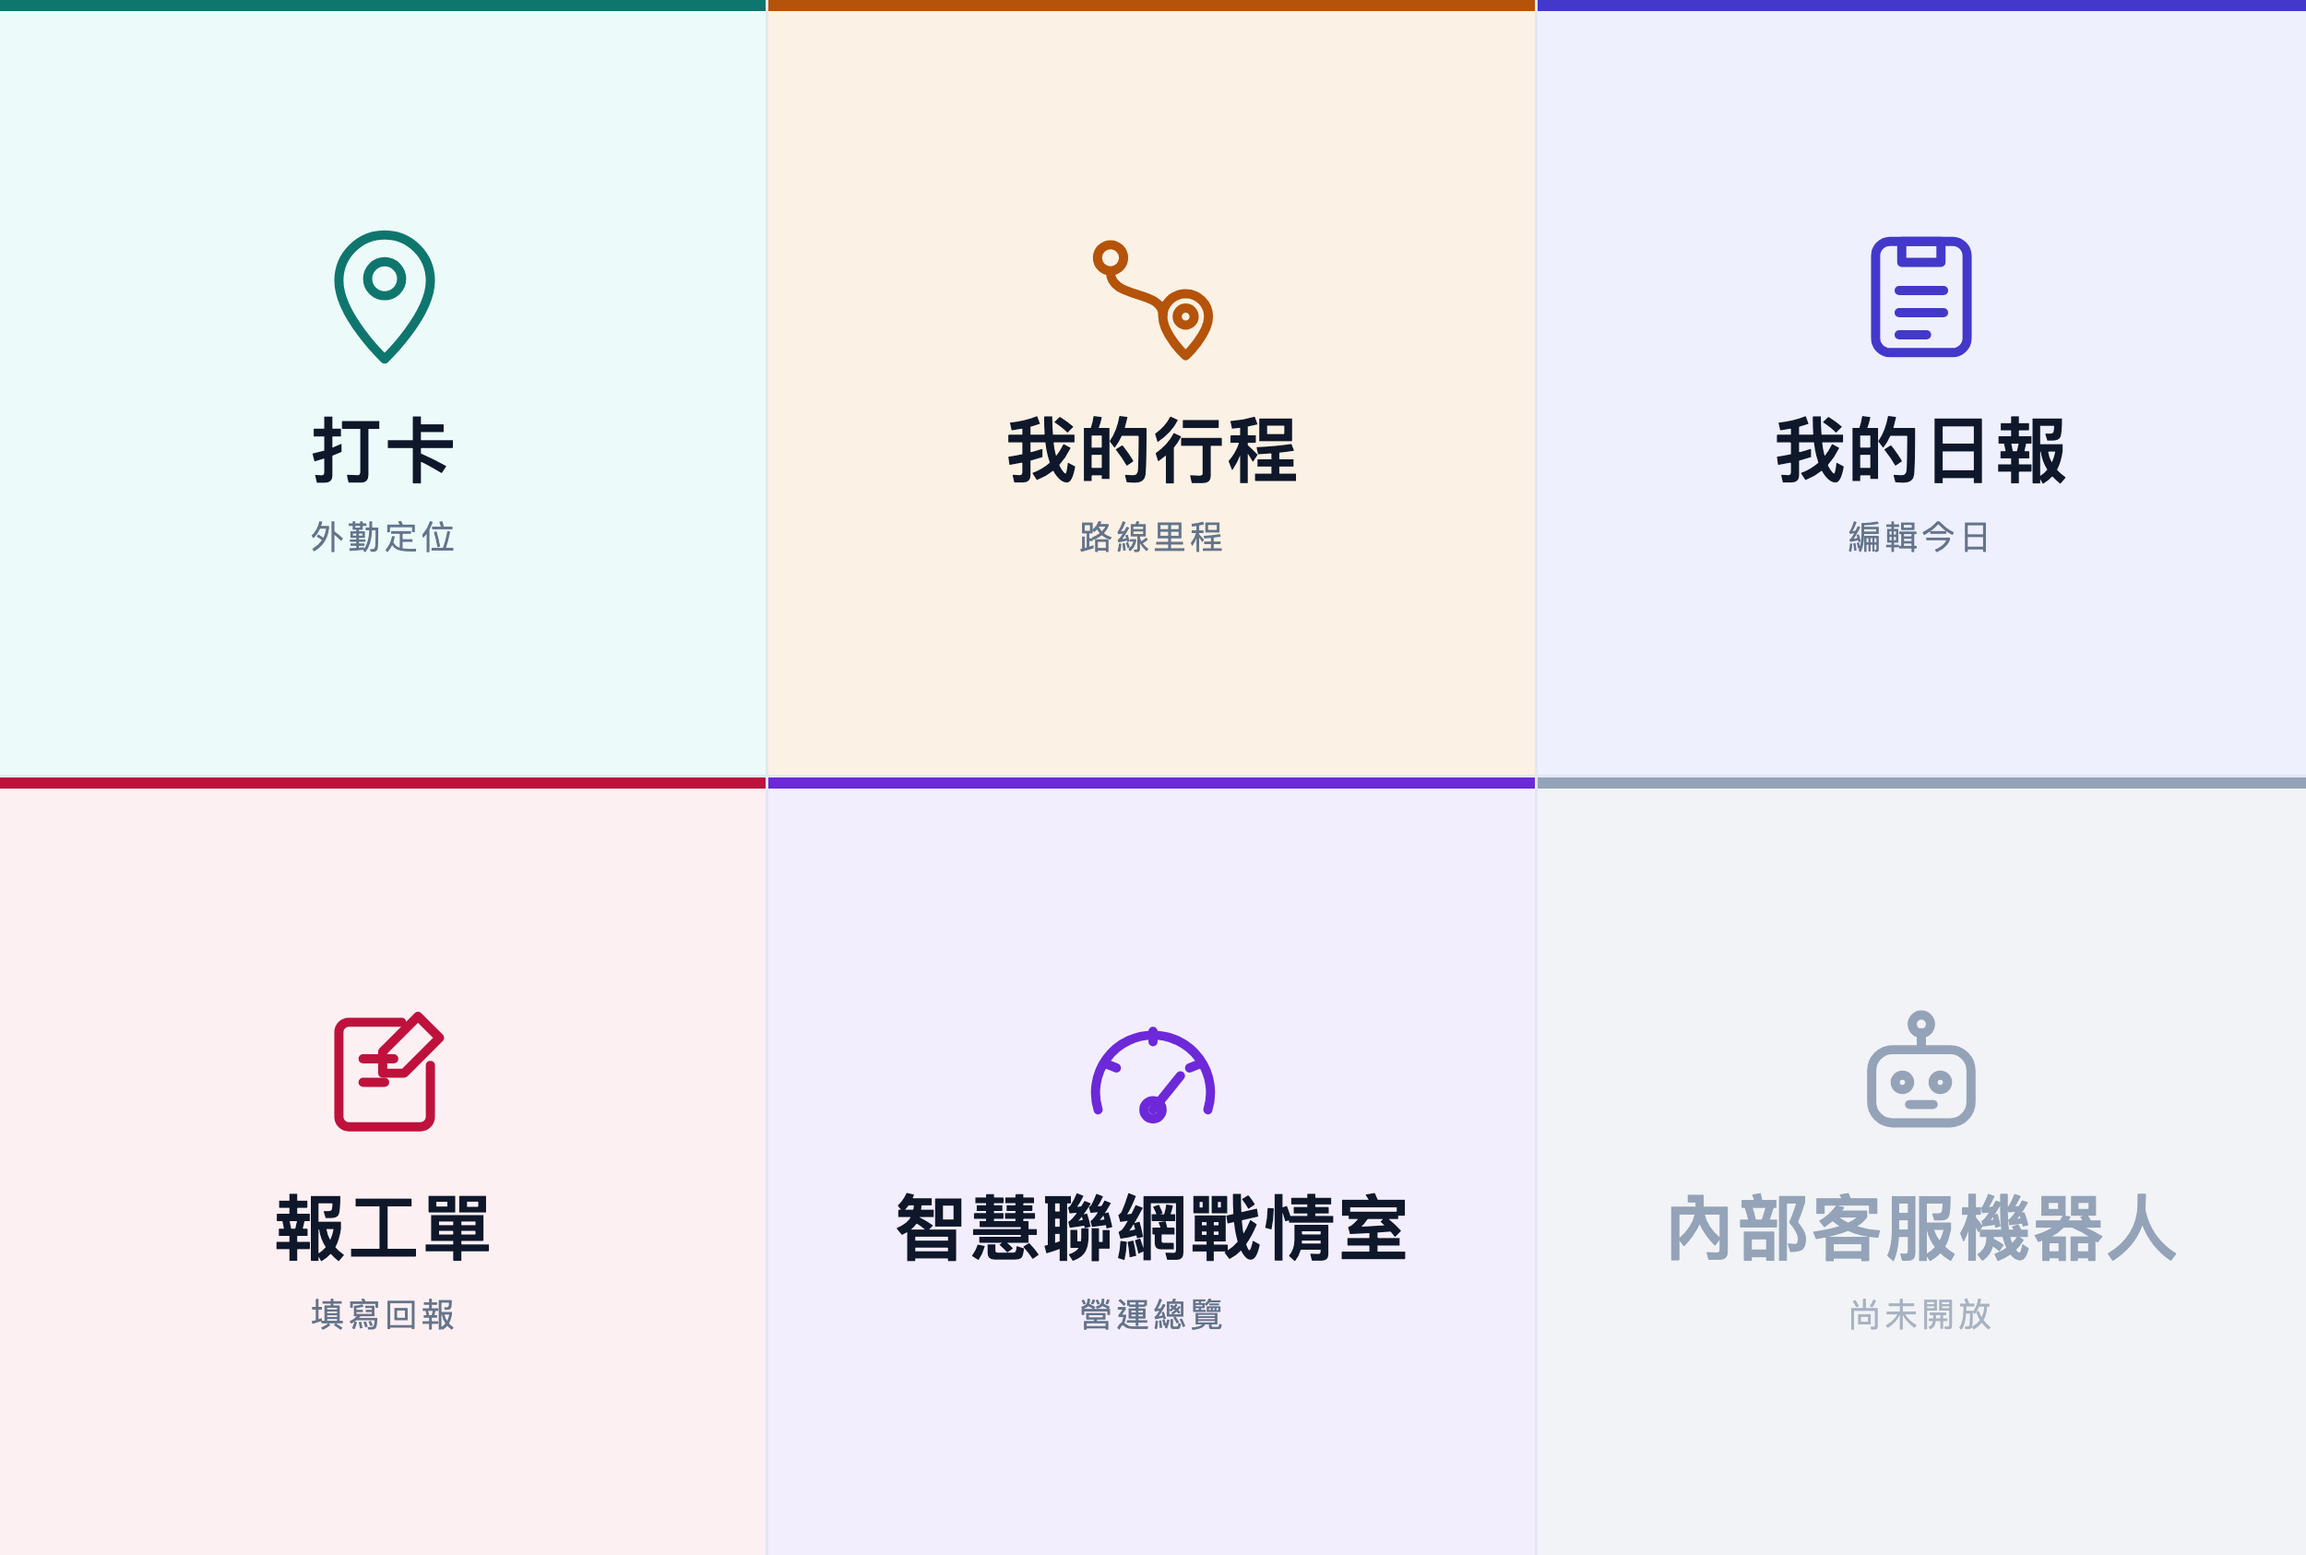
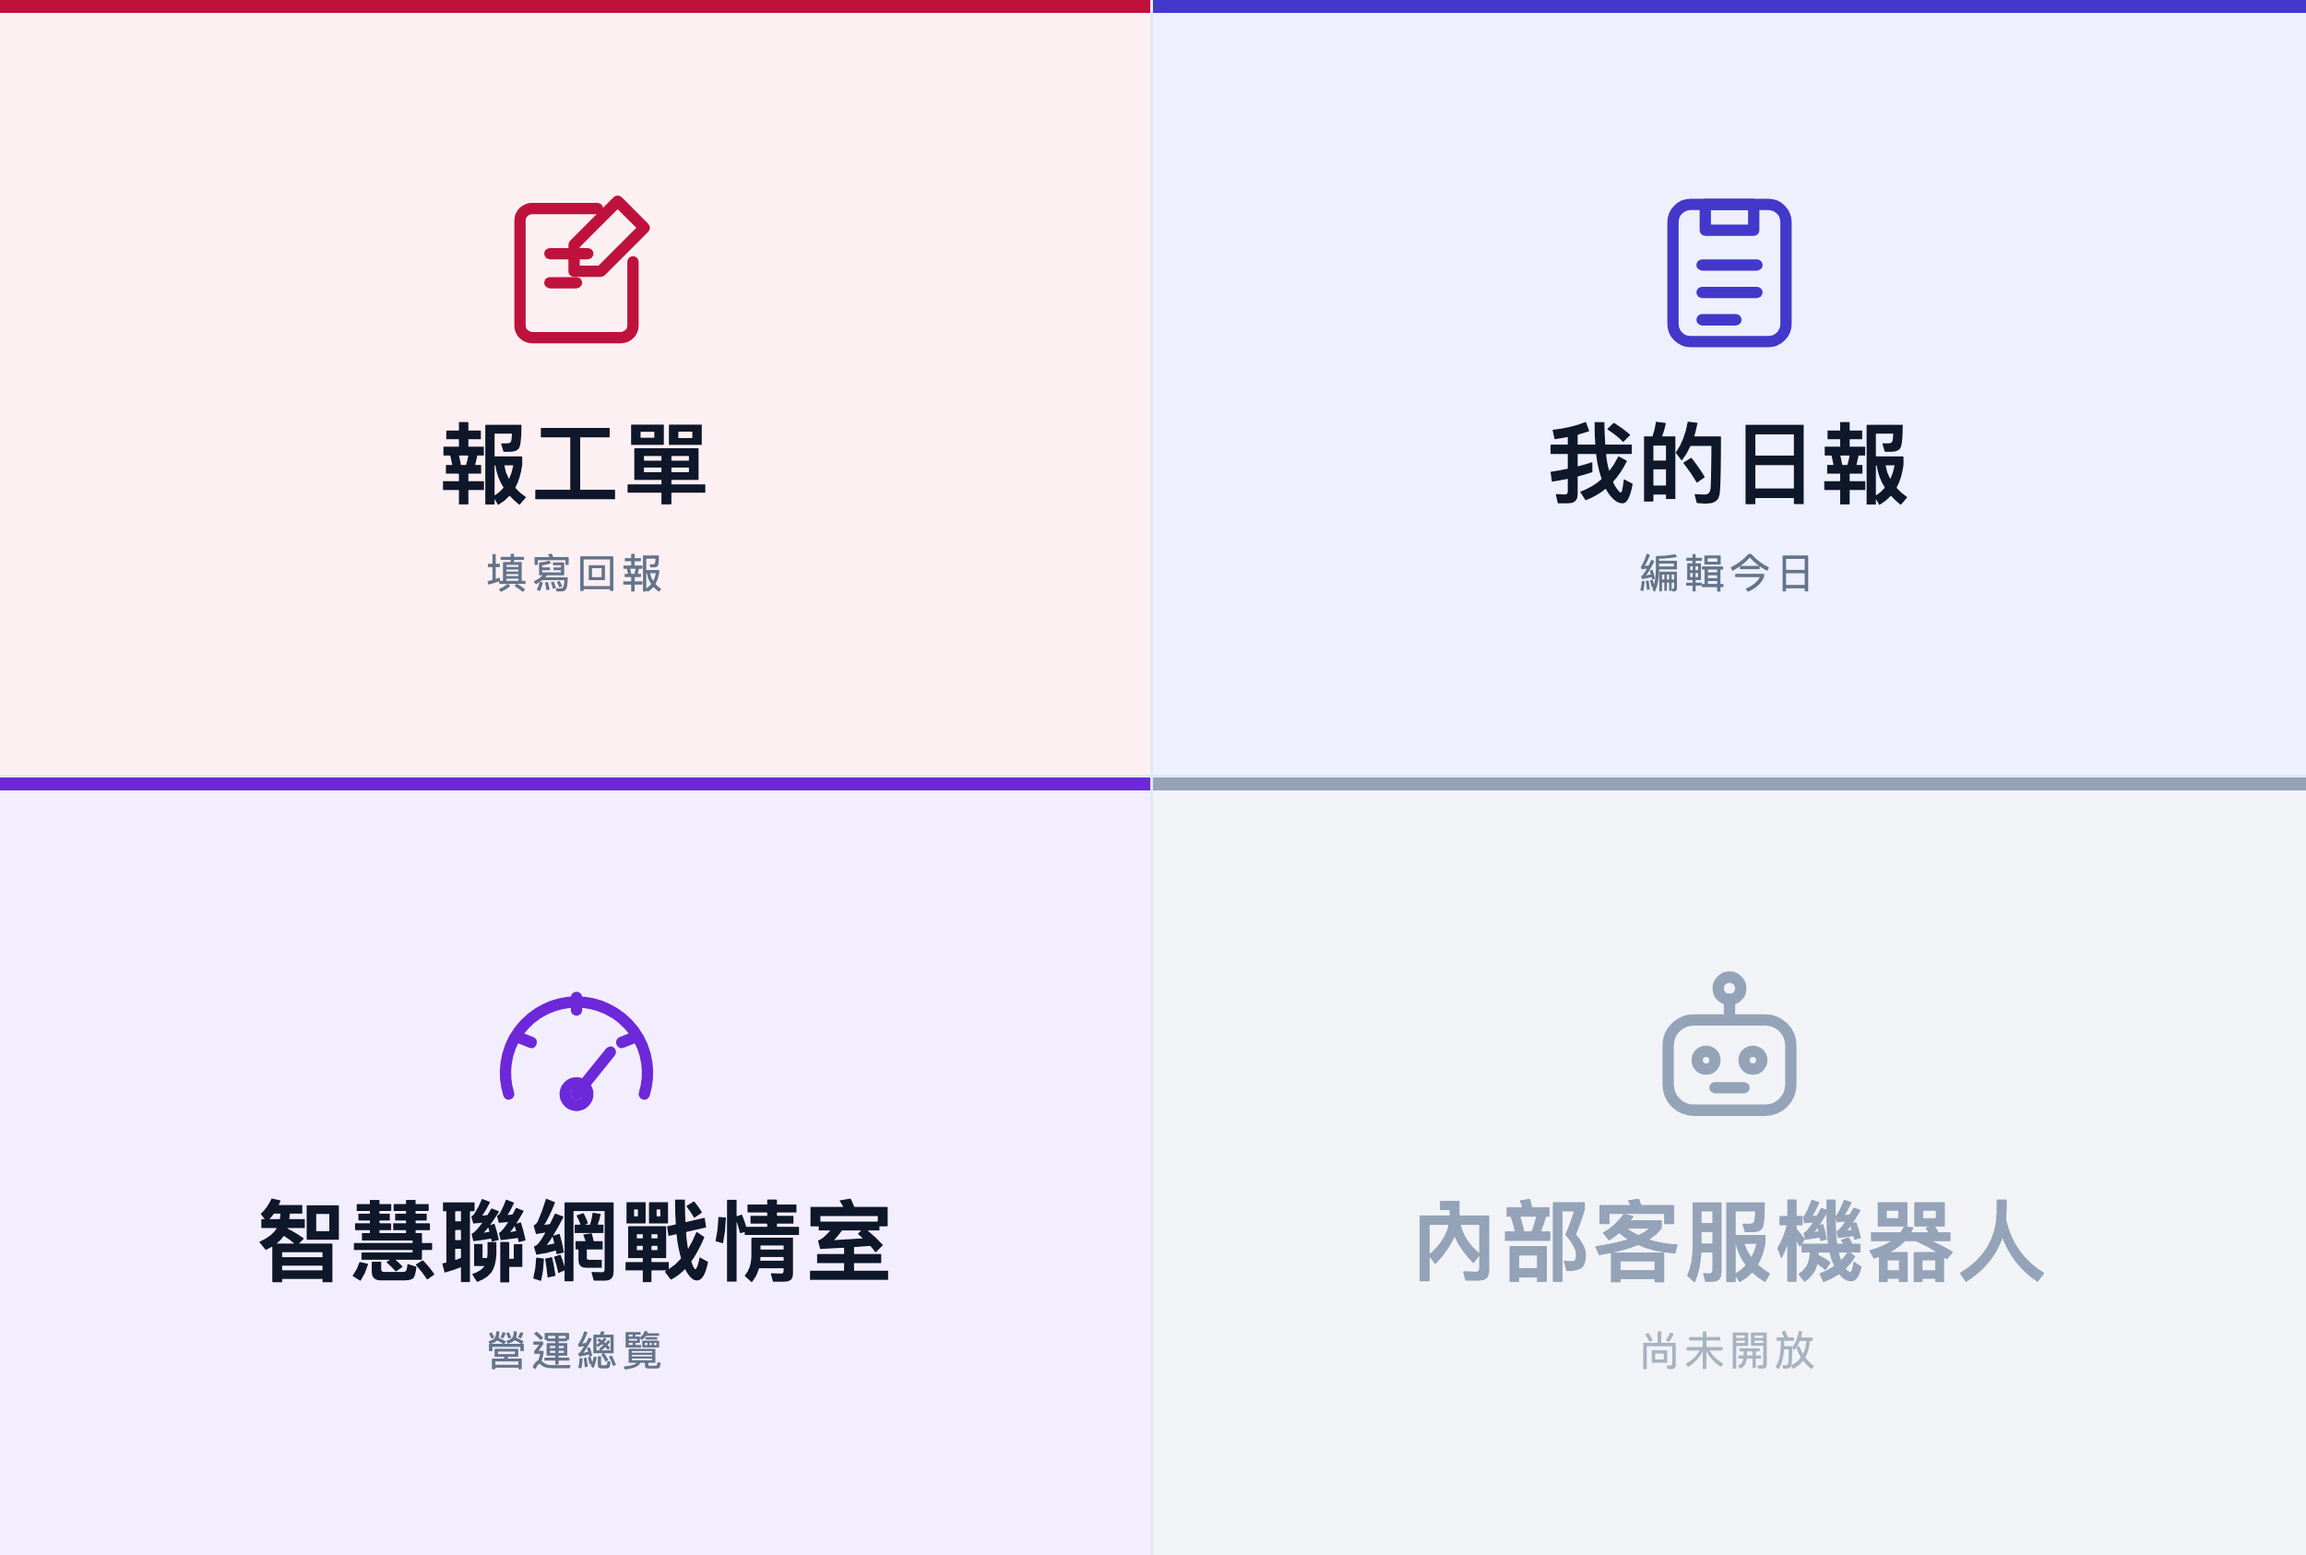
docs(richmenu): 鮮湧改 4 宮格 · 先隱藏打卡與我的行程
用戶要求鮮湧本期不放外勤功能。6 宮格 → 2×2 四宮格：
報工單 / 我的日報 / 智慧聯網戰情室 / 內部客服機器人（仍為灰階預寫）。

⚠ README 補一條操作警告：只換背景圖不算隱藏。
圖文選單的可點區塊是獨立於背景圖設定的，版型若還留著 6 區塊，
使用者點原本打卡的位置照樣會開啟 LIFF 打卡頁 —— 而且圖上看不出
那裡可以點，比壞掉的按鈕更難察覺。換圖必須一併改版型成 4 區塊。

打卡／我的行程的 LIFF 頁面本身不動，只是選單不放，要恢復隨時可以。

順手把戰情室那格的網址補成實際的 shianyong-warroom.html（原本只寫到網域）。

diff --git a/docs/mockup/richmenu/shianyong/menu.html b/docs/mockup/richmenu/shianyong/menu.html
@@ -2,16 +2,17 @@
 <html lang="zh-Hant">
 <head>
 <meta charset="utf-8" />
-<title>鮮湧 · 圖文選單背景圖（6 宮格 · 2500×1686）</title>
+<title>鮮湧 · 圖文選單背景圖（4 宮格 · 2500×1686）</title>
 <style>
   * { margin: 0; padding: 0; box-sizing: border-box; }
   html, body { background: #fff; }
   :root { --ink: #0F172A; --muted: #64748B; --divider: #E2E8F0; }
 
-  /* 3 欄 × 2 列 · 每格 833×843（LINE 大版 2500×1686 的 6 區塊版型）*/
+  /* 2 欄 × 2 列 · 每格 1250×843（LINE 大版 2500×1686 的 4 區塊版型）
+     2026-08-20：由 6 宮格改為 4 宮格 —— 打卡／我的行程先隱藏（鮮湧本期不導入外勤功能）*/
   .menu {
     display: grid;
-    grid-template-columns: repeat(3, 1fr);
+    grid-template-columns: repeat(2, 1fr);
     grid-template-rows: repeat(2, 1fr);
     width: 2500px; height: 1686px; overflow: hidden;
     font-family: "PingFang TC","Noto Sans TC","Microsoft JhengHei",sans-serif;
@@ -20,71 +21,36 @@
   .cell {
     display: flex; flex-direction: column;
     align-items: center; justify-content: center;
-    position: relative; padding: 0 24px;
+    position: relative; padding: 0 40px;
   }
-  /* 格線：右邊界給前兩欄、下邊界給第一列 —— 不用 border 疊加避免佔掉像素 */
-  .cell:not(:nth-child(3n))::after {
+  .cell:nth-child(odd)::after {
     content: ""; position: absolute; top: 0; right: 0; bottom: 0;
     width: 3px; background: var(--divider);
   }
-  .cell:nth-child(-n+3)::before {
+  .cell:nth-child(-n+2)::before {
     content: ""; position: absolute; left: 0; right: 0; bottom: 0;
     height: 3px; background: var(--divider);
   }
-  .accent { position: absolute; top: 0; left: 0; right: 0; height: 12px; }
+  .accent { position: absolute; top: 0; left: 0; right: 0; height: 14px; }
 
-  /* ── 上排：平台標配（與台灣福祉同一組配色，員工換公司也認得）── */
-  .c-punch  { background: #ECFBFA; } .c-punch  .accent { background: #0F766E; } .c-punch  svg { stroke: #0F766E; }
-  .c-trips  { background: #FBF1E4; } .c-trips  .accent { background: #B45309; } .c-trips  svg { stroke: #B45309; }
-  .c-report { background: #EEF0FD; } .c-report .accent { background: #4338CA; } .c-report svg { stroke: #4338CA; }
-  /* ── 下排：鮮湧專屬 ── */
   .c-work   { background: #FDF0F3; } .c-work   .accent { background: #BE123C; } .c-work   svg { stroke: #BE123C; }
+  .c-report { background: #EEF0FD; } .c-report .accent { background: #4338CA; } .c-report svg { stroke: #4338CA; }
   .c-war    { background: #F3EEFD; } .c-war    .accent { background: #6D28D9; } .c-war    svg { stroke: #6D28D9; }
-  /* 第 6 格是預寫的 —— 灰階＋「尚未開放」，避免有人照著去接動作 */
+  /* 第 4 格是預寫的 —— 灰階＋「尚未開放」，避免有人照著去接動作 */
   .c-bot    { background: #F1F3F6; } .c-bot    .accent { background: #94A3B8; } .c-bot    svg { stroke: #94A3B8; }
   .c-bot .label { color: #94A3B8; }
   .c-bot .cap   { color: #A8B2C1; }
 
   .icon { display: flex; align-items: center; justify-content: center; }
-  .icon svg { width: 170px; height: 170px; fill: none; stroke-width: 1.4; stroke-linecap: round; stroke-linejoin: round; }
-  .label { color: var(--ink); font-weight: 700; letter-spacing: 2px; font-size: 78px; margin-top: 26px; white-space: nowrap; }
-  .cap { color: var(--muted); letter-spacing: 4px; font-size: 36px; margin-top: 14px; white-space: nowrap; }
+  .icon svg { width: 210px; height: 210px; fill: none; stroke-width: 1.4; stroke-linecap: round; stroke-linejoin: round; }
+  .label { color: var(--ink); font-weight: 700; letter-spacing: 3px; font-size: 96px; margin-top: 34px; white-space: nowrap; }
+  .cap { color: var(--muted); letter-spacing: 5px; font-size: 44px; margin-top: 20px; white-space: nowrap; }
 </style>
 </head>
 <body>
   <div class="menu">
 
-    <!-- 1 · 打卡 -->
-    <div class="cell c-punch">
-      <div class="accent"></div>
-      <div class="icon">
-        <svg viewBox="0 0 24 24"><path d="M12 21.5s7-6.6 7-12a7 7 0 1 0-14 0c0 5.4 7 12 7 12z"/><circle cx="12" cy="9.2" r="2.6"/></svg>
-      </div>
-      <div class="label">打卡</div>
-      <div class="cap">外勤定位</div>
-    </div>
-
-    <!-- 2 · 我的行程 -->
-    <div class="cell c-trips">
-      <div class="accent"></div>
-      <div class="icon">
-        <svg viewBox="0 0 24 24"><circle cx="5.5" cy="6" r="2"/><path d="M5.5 8.2c0 4.2 8 2.6 8 6.6"/><path d="M17 21s3.5-3.3 3.5-6a3.5 3.5 0 1 0-7 0c0 2.7 3.5 6 3.5 6z"/><circle cx="17" cy="15" r="1.3"/></svg>
-      </div>
-      <div class="label">我的行程</div>
-      <div class="cap">路線里程</div>
-    </div>
-
-    <!-- 3 · 我的日報 -->
-    <div class="cell c-report">
-      <div class="accent"></div>
-      <div class="icon">
-        <svg viewBox="0 0 24 24"><rect x="5" y="3.5" width="14" height="17" rx="2.2"/><path d="M9 3.5h6v3.2H9z"/><line x1="8.6" y1="11" x2="15.4" y2="11"/><line x1="8.6" y1="14.4" x2="15.4" y2="14.4"/><line x1="8.6" y1="17.8" x2="12.8" y2="17.8"/></svg>
-      </div>
-      <div class="label">我的日報</div>
-      <div class="cap">編輯今日</div>
-    </div>
-
-    <!-- 4 · 報工單 -->
+    <!-- 1 · 報工單 -->
     <div class="cell c-work">
       <div class="accent"></div>
       <div class="icon">
@@ -94,7 +60,17 @@
       <div class="cap">填寫回報</div>
     </div>
 
-    <!-- 5 · 智慧聯網戰情室 -->
+    <!-- 2 · 我的日報 -->
+    <div class="cell c-report">
+      <div class="accent"></div>
+      <div class="icon">
+        <svg viewBox="0 0 24 24"><rect x="5" y="3.5" width="14" height="17" rx="2.2"/><path d="M9 3.5h6v3.2H9z"/><line x1="8.6" y1="11" x2="15.4" y2="11"/><line x1="8.6" y1="14.4" x2="15.4" y2="14.4"/><line x1="8.6" y1="17.8" x2="12.8" y2="17.8"/></svg>
+      </div>
+      <div class="label">我的日報</div>
+      <div class="cap">編輯今日</div>
+    </div>
+
+    <!-- 3 · 智慧聯網戰情室 -->
     <div class="cell c-war">
       <div class="accent"></div>
       <div class="icon">
@@ -104,7 +80,7 @@
       <div class="cap">營運總覽</div>
     </div>
 
-    <!-- 6 · 內部客服機器人（預寫 · 尚未開放）-->
+    <!-- 4 · 內部客服機器人（預寫 · 尚未開放）-->
     <div class="cell c-bot">
       <div class="accent"></div>
       <div class="icon">

diff --git a/docs/mockup/richmenu/README.md b/docs/mockup/richmenu/README.md
@@ -30,19 +30,25 @@ richmenu/
 | 租戶 | 官方帳號 | 版面 | 格數 | 檔案 |
 |---|---|---|--:|---|
 | 台灣福祉 | AI-TWBRAUN | 1 列 3 欄 | 3 | `taiwanhomecare/`（大版＋半高版）|
-| 鮮湧 | 鮮湧AI客服 | 3 欄 × 2 列 | 6 | `shianyong/`（僅大版，見下）|
+| 鮮湧 | 鮮湧AI客服 | 2 欄 × 2 列 | 4 | `shianyong/`（僅大版，見下）|
 | aiproot | aiproot | — | 3 | 目前直接沿用台灣福祉那張背景圖，只是區塊網址帶自己的 `botId`／`liffId` |
 
-### 鮮湧 6 宮格 · 每一格接什麼
+### 鮮湧 4 宮格 · 每一格接什麼
+
+> **2026-08-20 由 6 宮格改為 4 宮格** —— 用戶要求先隱藏「打卡」與「我的行程」（鮮湧本期不導入外勤功能）。
+> ⚠ **只換背景圖不算隱藏** —— 圖文選單的可點區塊是獨立設定的，
+> 版型若還留著 6 區塊，使用者點原本打卡的位置**照樣會開啟 LIFF 打卡頁**（圖上看不出那裡可以點，更難察覺）。
+> 換圖時**必須一併把版型改成 4 區塊**。
 
 | # | 標籤 | 現況 | 要接什麼 |
 |--:|---|---|---|
-| 1 | 打卡 | ✅ 頁面已上線 | `?page=punch` |
-| 2 | 我的行程 | ✅ 頁面已上線 | `?page=trips` |
-| 3 | 我的日報 | ✅ 頁面已上線 | `?page=mine` |
-| 4 | 報工單 | ⚠ **沒有對應頁面** | LIFF 只認得 `mine` / `punch` / `trips`（`web/src/liff/main.tsx:100`）· 要嘛新增一個 page、要嘛先指到 Ragic 表單網址 |
-| 5 | 智慧聯網戰情室 | ⚠ 有網站、但不是 LIFF | 戰情室是一般網頁（`https://ai-center-line-demo.onrender.com/`）· 用 URI 動作直接開即可，不需要 LIFF |
-| 6 | 內部客服機器人 | 🔒 **預寫、尚未開放** | 背景圖上刻意畫成**灰階＋「尚未開放」**，避免有人照著去接動作。要上線時先改圖再設區塊 |
+| 1 | 報工單 | ⚠ **沒有對應頁面** | LIFF 只認得 `mine` / `punch` / `trips`（`web/src/liff/main.tsx:100`）· 要嘛新增一個 page、要嘛先指到 Ragic 表單網址 |
+| 2 | 我的日報 | ✅ 頁面已上線 | `?page=mine` |
+| 3 | 智慧聯網戰情室 | ✅ 已上線 | 一般網頁，非 LIFF：`https://ai-center-line-demo.onrender.com/shianyong-warroom.html`（平面圖監控＋批次品質兩個分頁）· 用 URI 動作直接貼，不帶 `botId`／`liffId` |
+| 4 | 內部客服機器人 | 🔒 **預寫、尚未開放** | 背景圖上刻意畫成**灰階＋「尚未開放」**，避免有人照著去接動作。要上線時先改圖再設區塊 |
+
+**已隱藏（頁面仍在，只是選單不放）**：打卡 `?page=punch`、我的行程 `?page=trips`。
+要恢復的話 `menu.html` 改回 3×2、重產圖、版型換回 6 區塊即可，後端不必動。
 
 > ⚠ **4／5／6 貼上去之前要先確認網址真的開得起來。**
 > 圖文選單的區塊是「圖上的一塊範圍」，貼錯網址不會有任何錯誤提示 ——
